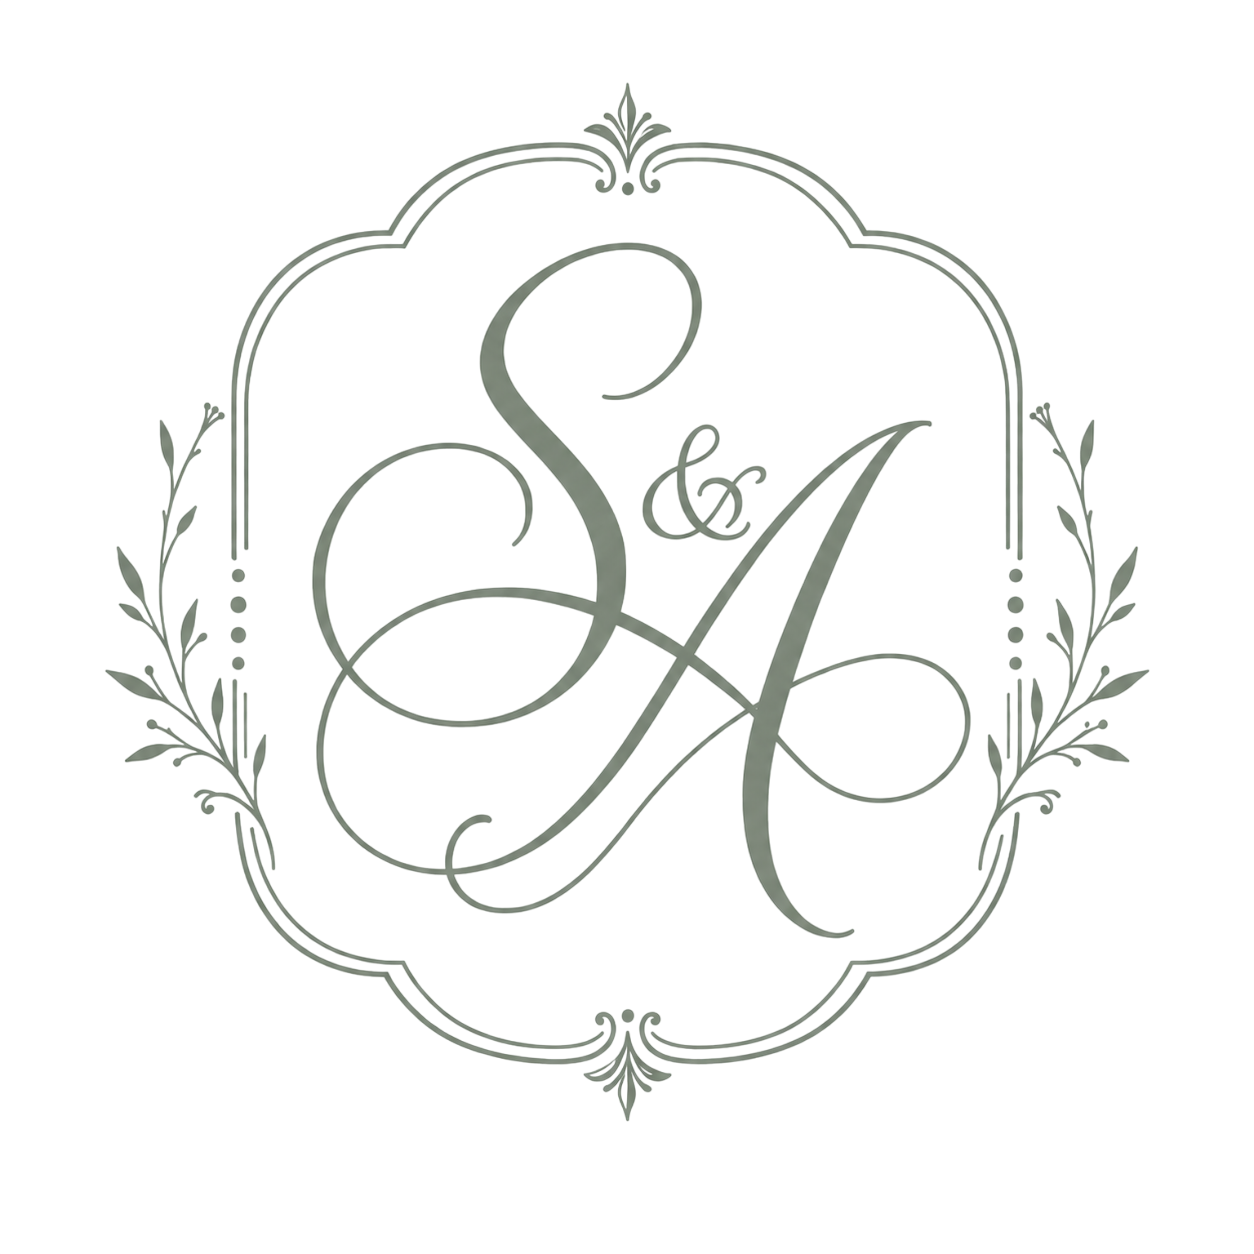
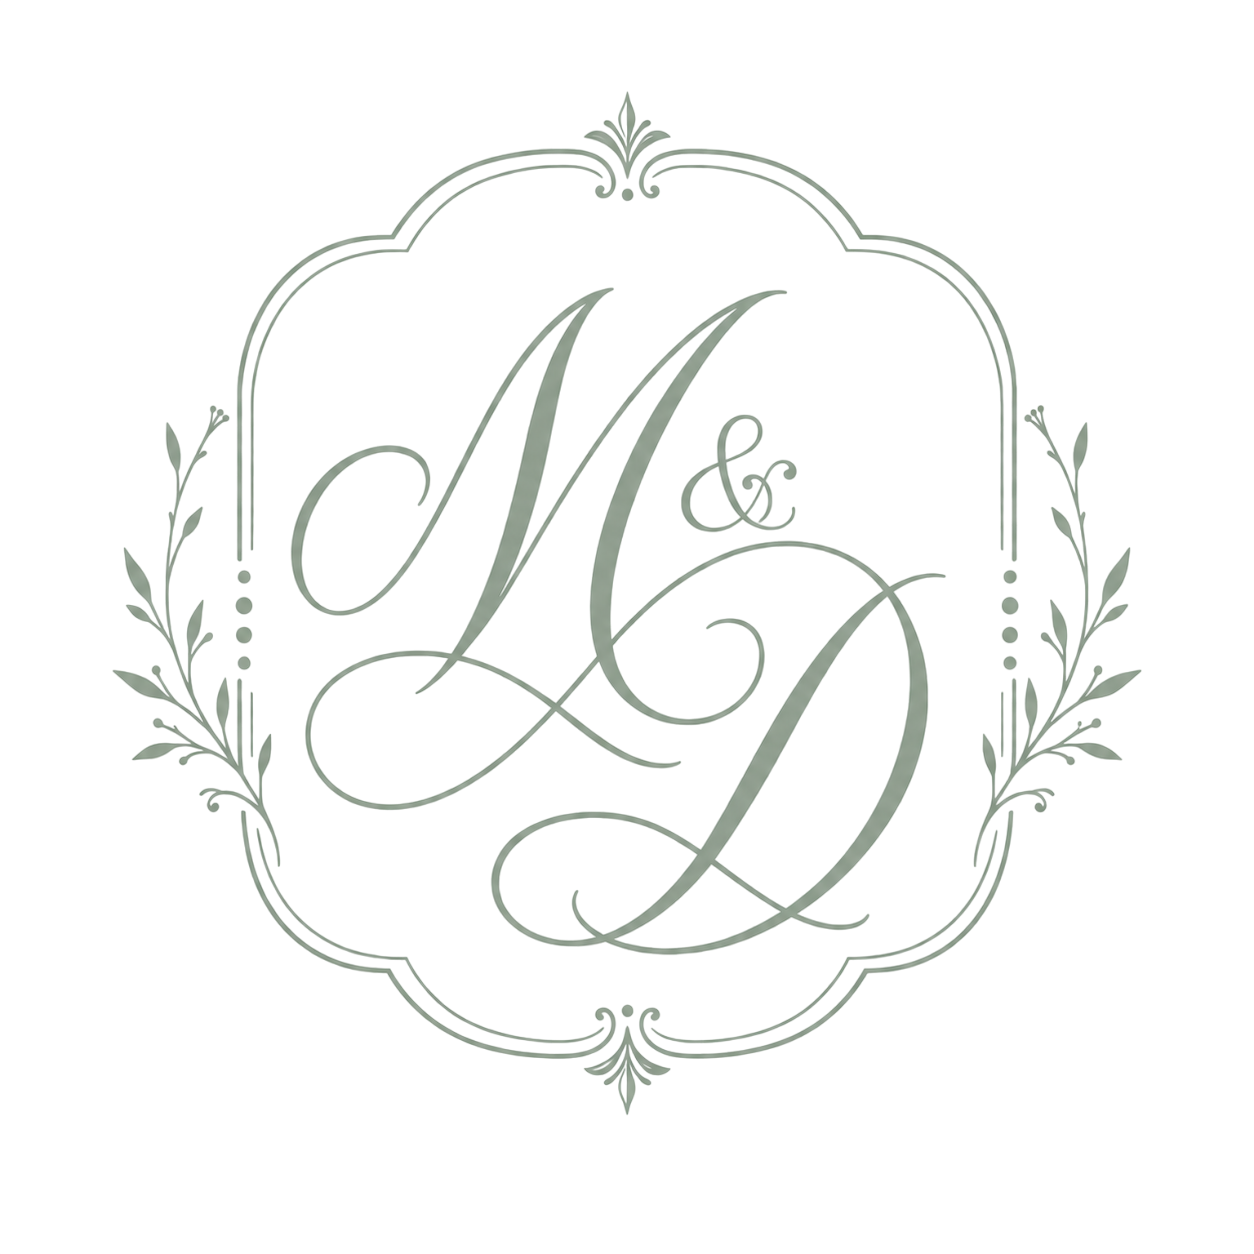
Update brand mark and iOS audio support

Changed region(s): [[0.0933, 0.0622, 0.9019, 0.9019], [0.7153, 0.311, 0.7464, 0.3421], [0.5909, 0.2177, 0.622, 0.2488]]

diff --git a/server.js b/server.js
@@ -13,13 +13,46 @@ const mimeTypes = {
   ".jpg": "image/jpeg",
   ".jpeg": "image/jpeg",
   ".webp": "image/webp",
-  ".svg": "image/svg+xml"
+  ".svg": "image/svg+xml",
+  ".mp3": "audio/mpeg",
+  ".m4a": "audio/mp4"
 };
 
-function sendFile(res, filePath) {
+function sendFile(req, res, filePath, stats) {
   const ext = path.extname(filePath).toLowerCase();
+  const contentType = mimeTypes[ext] || "application/octet-stream";
+  const isAudio = contentType.startsWith("audio/");
+
+  if (isAudio && req.headers.range) {
+    const range = req.headers.range;
+    const fileSize = stats.size;
+    const parts = range.replace(/bytes=/, "").split("-");
+    const start = Number.parseInt(parts[0], 10);
+    const end = parts[1] ? Number.parseInt(parts[1], 10) : fileSize - 1;
+
+    if (Number.isNaN(start) || Number.isNaN(end) || start >= fileSize || end >= fileSize) {
+      res.writeHead(416, {
+        "Content-Range": `bytes */${fileSize}`
+      });
+      res.end();
+      return;
+    }
+
+    res.writeHead(206, {
+      "Content-Type": contentType,
+      "Content-Length": end - start + 1,
+      "Content-Range": `bytes ${start}-${end}/${fileSize}`,
+      "Accept-Ranges": "bytes",
+      "Cache-Control": "public, max-age=31536000"
+    });
+    fs.createReadStream(filePath, { start, end }).pipe(res);
+    return;
+  }
+
   res.writeHead(200, {
-    "Content-Type": mimeTypes[ext] || "application/octet-stream",
+    "Content-Type": contentType,
+    "Content-Length": stats.size,
+    "Accept-Ranges": isAudio ? "bytes" : "none",
     "Cache-Control": ext === ".html" ? "no-cache" : "public, max-age=31536000"
   });
   fs.createReadStream(filePath).pipe(res);
@@ -40,12 +73,20 @@ const server = http.createServer((req, res) => {
 
   fs.stat(filePath, (error, stats) => {
     if (!error && stats.isFile()) {
-      sendFile(res, filePath);
+      sendFile(req, res, filePath, stats);
       return;
     }
 
     filePath = path.join(publicDir, "index.html");
-    sendFile(res, filePath);
+    fs.stat(filePath, (indexError, indexStats) => {
+      if (indexError) {
+        res.writeHead(500);
+        res.end("Internal Server Error");
+        return;
+      }
+
+      sendFile(req, res, filePath, indexStats);
+    });
   });
 });
 

diff --git a/public/index.html b/public/index.html
@@ -14,7 +14,7 @@
       href="https://fonts.googleapis.com/css2?family=Alex+Brush&family=Cormorant+Garamond:wght@400;500;600;700&family=Inter:wght@400;500;600;700&display=swap"
       rel="stylesheet"
     />
-    <link rel="stylesheet" href="/styles.css?v=49" />
+    <link rel="stylesheet" href="/styles.css?v=50" />
   </head>
   <body class="locked">
     <section class="cover" id="cover" aria-label="Portada de invitación">
@@ -44,7 +44,9 @@
     <button class="music-button" id="musicButton" type="button" aria-label="Reproducir música">
       <span aria-hidden="true"></span>
     </button>
-    <audio id="weddingMusic" src="/assets/musica_boda.m4a" preload="auto" loop></audio>
+    <audio id="weddingMusic" preload="auto" loop playsinline>
+      <source src="/assets/musica_boda.m4a" type="audio/mp4" />
+    </audio>
 
     <main class="site invitation" id="site">
       <header class="hero reveal" id="inicio">
@@ -221,6 +223,6 @@
       </footer>
     </main>
 
-    <script src="/script.js?v=49"></script>
+    <script src="/script.js?v=50"></script>
   </body>
 </html>